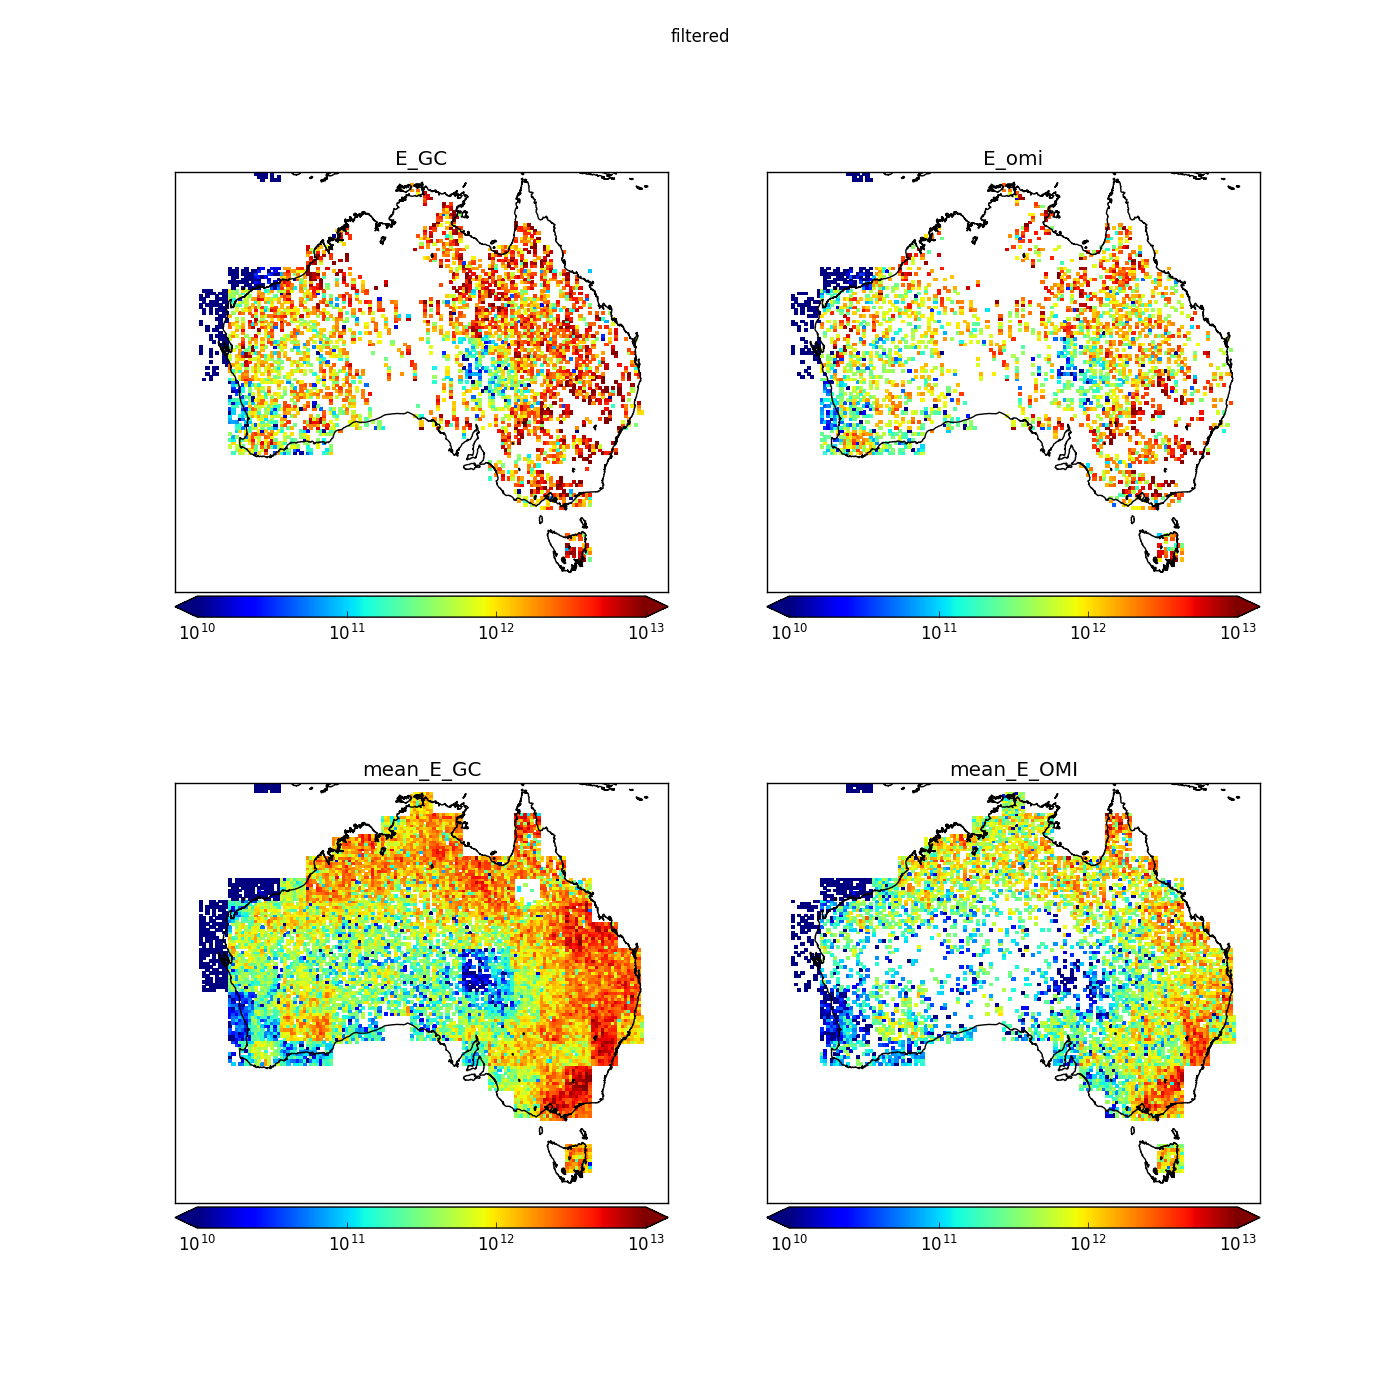
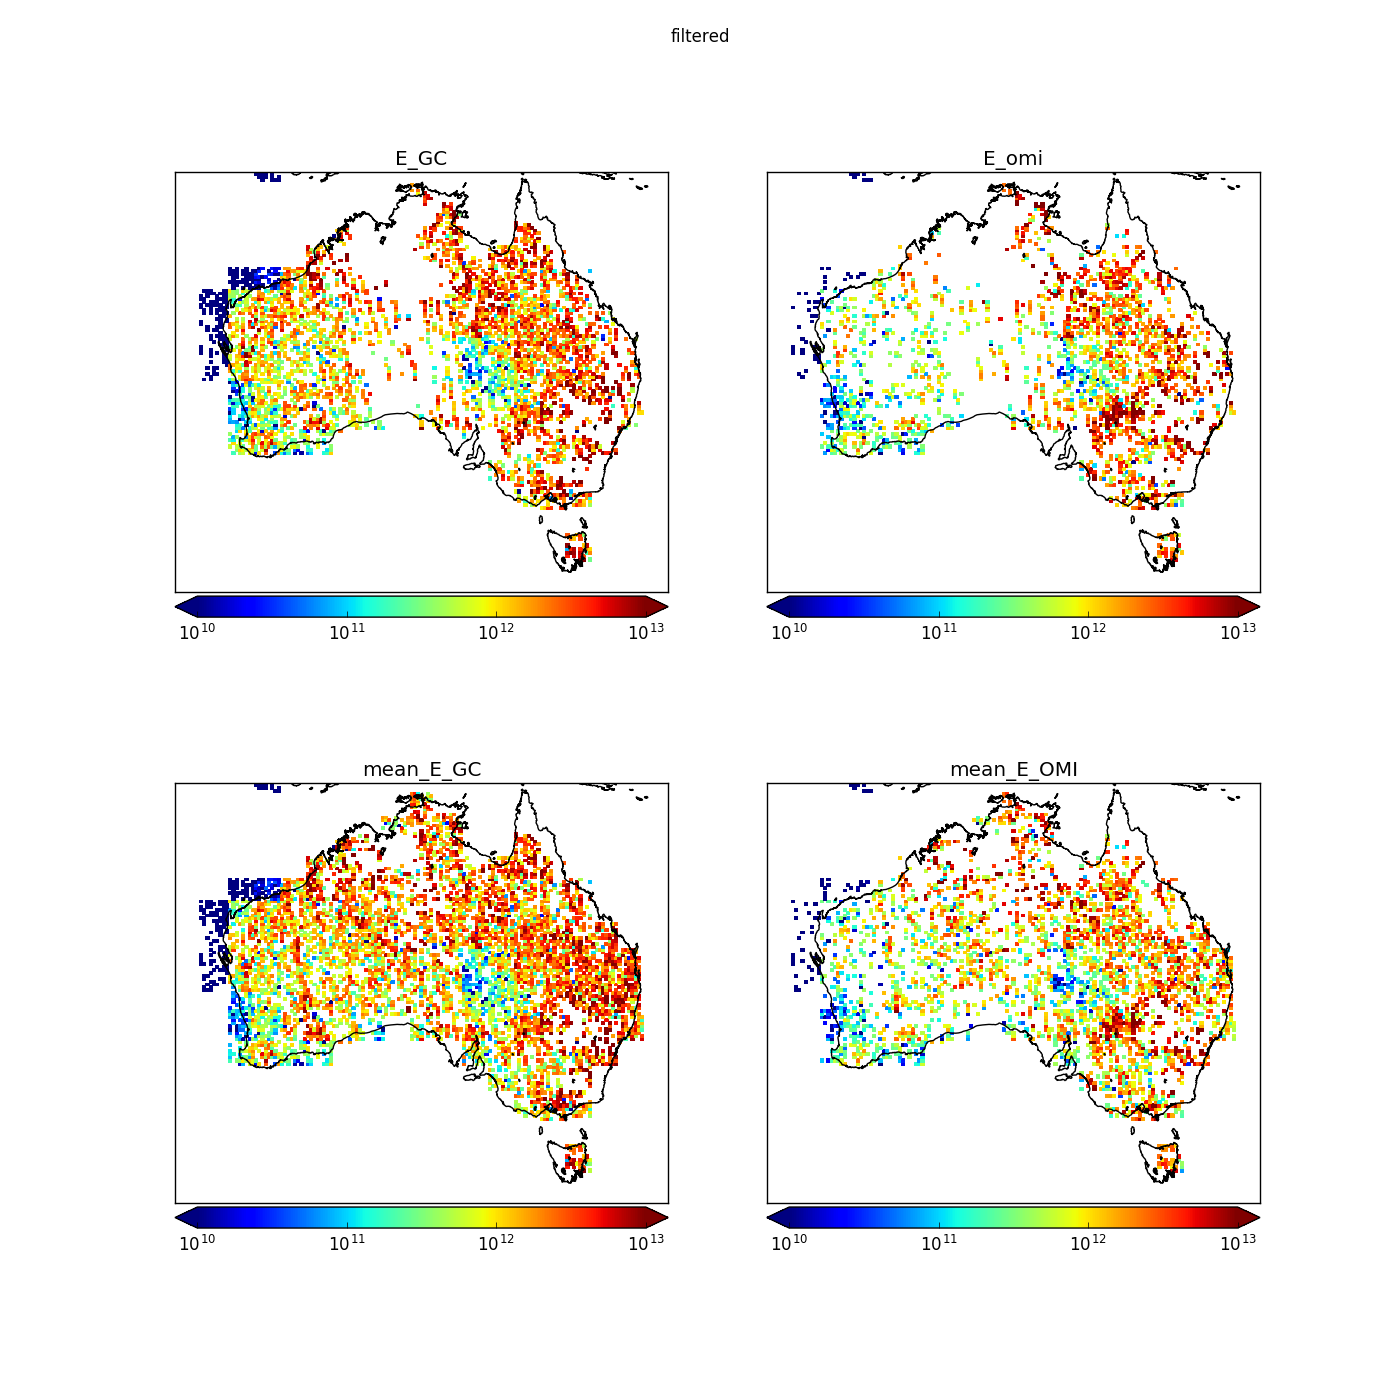
updated local tests, found that filter is not working...

Changed region(s): [[0.1229, 0.5529, 0.4607, 0.86], [0.5529, 0.5529, 0.8907, 0.86], [0.5529, 0.1536, 0.8907, 0.3993]]

diff --git a/localtests.py b/localtests.py
@@ -212,6 +212,9 @@ if True:
 
 
 for i,day in enumerate(days):
+    if True:
+        if i==2:
+            break
 
     BG_VCCi = BG_VCCa[i]
     BG_PPi  = BG_PPa[i]
@@ -228,8 +231,11 @@ for i,day in enumerate(days):
     BG_PPi  = BG_PPi[omilati]
     BG_OMIi = BG_OMIi[omilati]
 
-    plt.plot(omilats,BG_VCCi,'r')
-    plt.plot(omilats,BG_OMIi,'m')
+    plt.plot(omilats,BG_VCCi,'r',label='BG VCC %d'%i)
+    plt.plot(omilats,BG_OMIi,'m', label='BG OMI %d'%i)
+    if i==1:
+        plt.legend()
+        plt.title('Background over latitude')
 
     # The backgrounds need to be the same shape so we can subtract from whole array at once.
     # done by repeating the BG values ([lats]) N times, then reshaping to [lats,N]
@@ -247,33 +253,50 @@ for i,day in enumerate(days):
     E_gc_u[i,:,:]       = (VCC_GC[i] - BG_VCCi) / GC_slope
     E_pp_u[i,:,:]       = (VCC_PP[i] - BG_PPi) / GC_slope
     E_omi_u[i,:,:]      = (VCC_OMI[i] - BG_OMIi) / GC_slope
-    if i == 0:
-        print("UNFILTERED:")
-        print(np.nanmean(E_omi_u))
 
     # run with filters
     # apply filters
     allmasks            = firefilter[i] + anthrofilter[i] # + smearfilter
-    if True:
-        print("ALLMASKS")
-        print(allmasks)
-        print(np.sum(allmasks))
-        print(np.nansum(VCC_GC[i][allmasks]))
-        exit(0)
-    vcc_gci             = np.copy(VCC_GC[i])
-    vcc_gci[allmasks]   = np.NaN
-    vcc_ppi             = np.copy(VCC_PP[i])
-    vcc_ppi[allmasks]   = np.NaN
-    vcc_omii            = np.copy(VCC_OMI[i])
-    vcc_omii[allmasks]  = np.NaN
-    plt.plot(allmasks)
+    print('FILTER DEETS')
+    print(allmasks.shape)
+    print(np.nansum(allmasks))
+
+    assert not np.isnan(np.nansum(VCC_GC[i][allmasks])), 'Filtering nothing!?'
+
     # estimate emissions
-    E_gc[i,:,:]         = (vcc_gci - BG_VCCi) / GC_slope
-    E_pp[i,:,:]         = (vcc_ppi - BG_PPi) / GC_slope
-    E_omi[i,:,:]        = (vcc_omii - BG_OMIi) / GC_slope
+    E_gc[i,:,:]         = np.copy(E_gc_u[i])
+    E_pp[i,:,:]         = np.copy(E_pp_u[i])
+    E_omi[i,:,:]        = np.copy(E_pp_u[i])
+    E_gc[i][allmasks]   = np.NaN
+    E_pp[i,allmasks]   = np.NaN
+    E_omi[i,allmasks]   = np.NaN
     if i == 0:
-        print("FILTERED")
-        print(np.nanmean(E_omi))
+        # lets have a close look at these things
+        vmin=1e10
+        vmax=1e13
+        f=plt.figure(figsize=(14,14))
+        plt.subplot(211)
+        # Plot E_new before and after filtering
+        m,cs,cb=pp.createmap(E_gc_u[i],omilats,omilons, title='E_GC_u', region=[-40,130,-20,155],
+                             vmin=vmin,vmax=vmax)
+
+        # plot dots where filter should be
+        for yi,y in enumerate(omilats):
+            for xi,x in enumerate(omilons):
+                if firefilter[i,yi,xi]:
+                   mx,my = m(x,y)
+                   m.plot(mx,my,'x',markersize=6,color='k')
+                if anthrofilter[i,yi,xi]:
+                   mx,my = m(x,y)
+                   m.plot(mx,my,'d',markersize=3,color='k')
+        plt.subplot(212)
+        m,cs,cb=pp.createmap(E_gc[i],omilats,omilons, title='E_GC', region=[-40,130,-20,155],
+                             vmin=vmin,vmax=vmax)
+
+        pname='temp_E_filtering_check.png'
+        plt.savefig(pname)
+        print('saved ',pname)
+        plt.close()
 
 if True:
     vmin=0
@@ -352,7 +375,7 @@ outdata['E_VCC_OMI_u']  = E_omi_u
 if True:
     print("______EMISSIONS_____")
     print("Filtered  ,    Unfiltered")
-    _blah = [print("%.2e  ,  %.2e  "%(np.nanmean(E),np.nanmean(E_u))) for E,E_u in zip([E_omi,E_gc,E_pp],[E_omi_u,E_gc_u,E_pp_u])]
+    _blah = [print("%.5e  ,  %.5e "%(np.nanmean(E),np.nanmean(E_u))) for E,E_u in zip([E_omi,E_gc,E_pp],[E_omi_u,E_gc_u,E_pp_u])]
 
 outattrs['E_VCC_GC']    = {'units':'molec OR atom C???/cm2/s',
                            'desc':'Isoprene Emissions based on VCC and GC_slope'}

diff --git a/utilities/plotting.py b/utilities/plotting.py
@@ -17,6 +17,7 @@ from matplotlib import ticker
 from mpl_toolkits.basemap import Basemap, interp
 import matplotlib.pyplot as plt
 import matplotlib.dates as mdates
+import warnings # To ignore warnings
 #import matplotlib.colors as mcolors #, colormapping
 from matplotlib.colors import LogNorm # for lognormal colour bar
 from datetime import timedelta
@@ -291,7 +292,10 @@ def createmap(data, lats, lons, make_edges=False, GC_shift=True,
     if not linear:
         if __VERBOSE__:
             print('removing %d negative datapoints in createmap'%np.nansum(data<0))
-        data[data<=0] = np.NaN
+        # ignore warnings of NaN comparison
+        with warnings.catch_warnings():
+            warnings.filterwarnings("ignore",category =RuntimeWarning)
+            data[data<=0] = np.NaN
         pcmeshargs['norm']=LogNorm()
 
     # Set vmin and vmax if necessary
